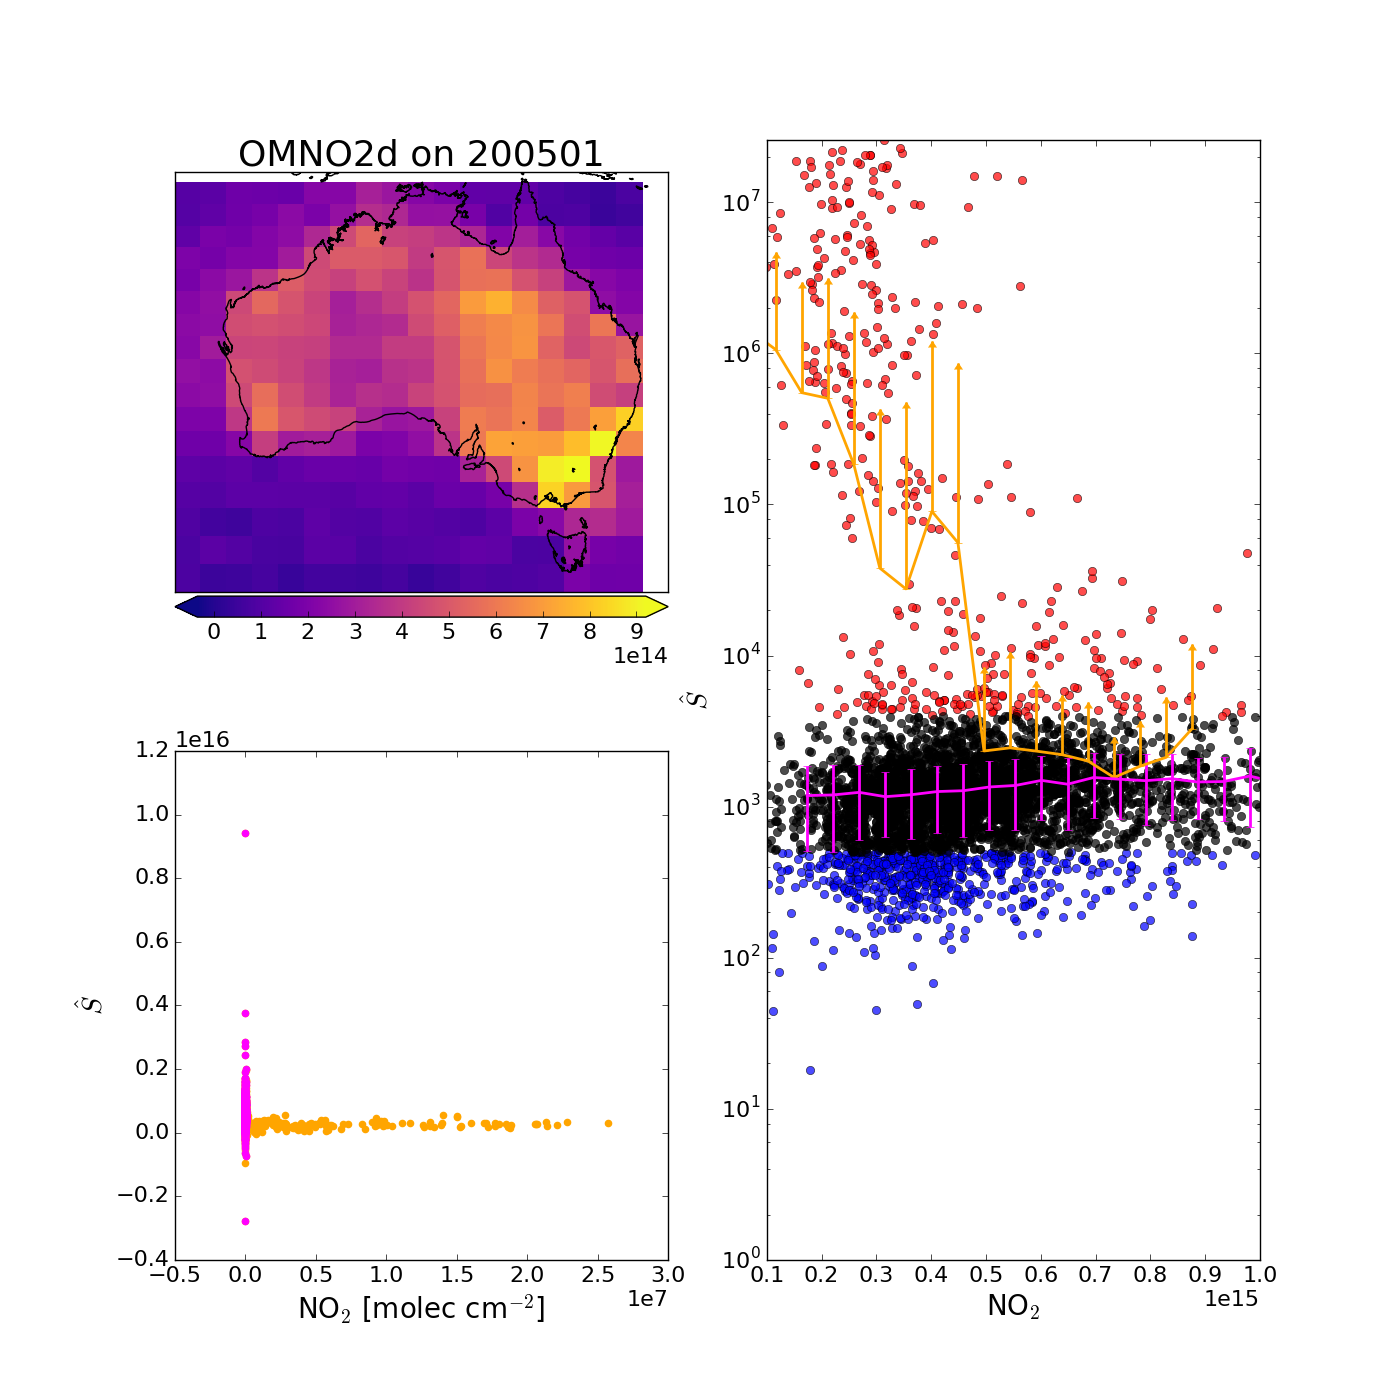
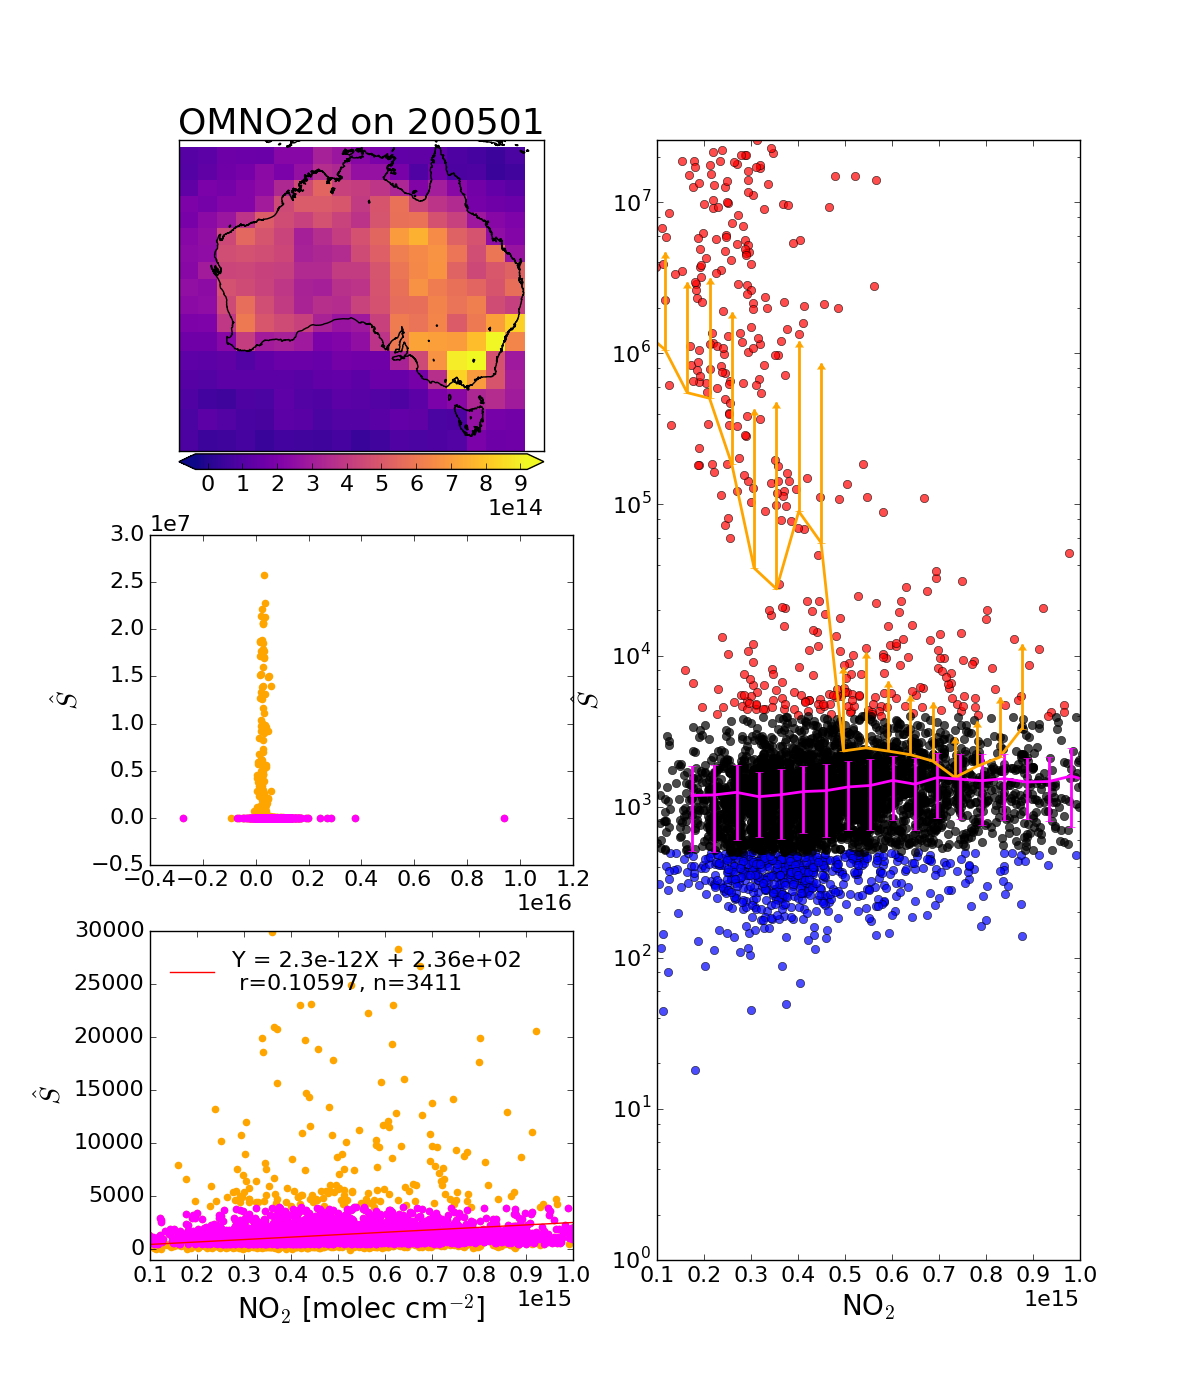
updated smearing nox plot

diff --git a/tests/test_filters.py b/tests/test_filters.py
@@ -1305,35 +1305,41 @@ def smearing_vs_nox(month=datetime(2005,1,1), hcho_life=2.5, smear_bounds=[500,4
     ## figure top left: aus map of NO2
     # bottom left: NO2 vs Shat scatter plot of regressions
     # right side: Distributions of smearing binned by NO2 levels
-    plt.figure(figsize=(14,14))
-    plt.subplot(2,2,1)
+    plt.figure(figsize=(12,14))
+    plt.subplot(3,2,1)
     pp.createmap(no2_mean,lats,lons,
                  title="OMNO2d on %s"%month.strftime("%Y%m"),aus=True,linear=True)
                  #vmin=500,vmax=5000,linear=True,
                  #ticks=[500,2000,3500,5000],
                  #xticklabels=['500','2000','3500','5000'])
 
+    ## Plot NO2 vs Shat
+    no2lims=[1e14,1e15]
+    slims=[-1e3,3e4]
+    plt.subplot(3,2,3)
+    plt.scatter(no2.flatten(), smear.flatten(), color='orange')
+    plt.scatter(fno2.flatten(), fsmear.flatten(), color='magenta')
+    plt.ylabel("$\hat{S}$")
+    #plt.xlabel("NO$_2$ [molec cm$^{-2}$]")
 
-    plt.subplot(2,2,3)
-    plt.scatter(smear.flatten(), no2.flatten(), color='orange')
-    #slims = [-1e4,8e4] # plot limits for slopes
-    #plt.xlim(slims)
-    #plt.ylim(slims)
-    #plt.plot(slims,slims, '--k') # dashed 1 to 1 line
+    ## Plot again but zoomed in with regression
+    plt.subplot(3,2,5)
+    plt.scatter(no2.flatten(), smear.flatten(), color='orange')
+    #plt.scatter(fno2.flatten(), fsmear.flatten(), color='magenta')
+    pp.plot_regression(fno2.flatten(), fsmear.flatten(), legendfont=16,
+                       logscale=False, colour='magenta')
     plt.ylabel("$\hat{S}$")
     plt.xlabel("NO$_2$ [molec cm$^{-2}$]")
-    #plt.title('unfiltered regression $\hat{S} = m NO$_2$ + b$')
-    # Again regression after filtering outside smearing bounds.
 
-    #pp.plot_regression(fno2.flatten(), fsmear.flatten(), logscale=False,
-    #                   colour='magenta')
-    plt.scatter(fsmear.flatten(), fno2.flatten(), color='magenta')
+    plt.xlim(no2lims)
+    plt.ylim(slims)
 
-    ## distribution binned by NO2
-    no2lims=[1e14,1e15]
-    #bins=np.logspace(14,15,20,base=10) # 1e13-1e17 ish
-    bins=np.linspace(5e13,1e15,21)
+
     plt.subplot(1,2,2)
+    ## distribution binned by NO2
+
+    bins=np.linspace(5e13,1e15,21)
+
     plt.plot(no2[smear_high], smear[smear_high], 'ro', alpha=0.7, zorder=-32)
     plt.plot(no2[smear_low], smear[smear_low], 'bo', alpha=0.7, zorder=-32)
     plt.plot(no2[~smear_filter], smear[~smear_filter], 'ko', alpha=0.7, zorder=-32)

diff --git a/utilities/fio.py b/utilities/fio.py
@@ -1364,7 +1364,7 @@ def get_fire_mask(d0, dN=None, prior_days_masked=2, fire_thresh=__Thresh_fires__
     # subset to requested dates, lats and lons
     di = util.date_index(d0,dates,dN=dN)
     if region is not None:
-        subset=util.lat_lon_subset(lats,lons,region=region,[firemask],has_time_dim=True)
+        subset=util.lat_lon_subset(lats,lons,region=region,data=[firemask],has_time_dim=True)
         firemask=subset['data'][0]
         lats=subset['lats']
         lons=subset['lons']
@@ -1390,7 +1390,7 @@ def get_anthro_mask(d0,dN,region=None,latres=__LATRES__, lonres=__LONRES__):
     # subset to desired time/area
     di=util.date_index(d0,dates,dN) # indices of dates from d0 to dN
     if region is not None:
-        subset=util.lat_lon_subset(lats,lons,region=region,[mask],has_time_dim=True)
+        subset=util.lat_lon_subset(lats,lons,region=region,data=[mask],has_time_dim=True)
         mask=subset['data'][0]
         lats=subset['lats']
         lons=subset['lons']
@@ -1412,7 +1412,7 @@ def get_smoke_mask(d0,dN,region=None,latres=__LATRES__, lonres=__LONRES__):
     # subset to desired time/area
     di=util.date_index(d0,dates,dN) # indices of dates from d0 to dN
     if region is not None:
-        subset=util.lat_lon_subset(lats,lons,region=region,[mask],has_time_dim=True)
+        subset=util.lat_lon_subset(lats,lons,region=region,data=[mask],has_time_dim=True)
         mask=subset['data'][0]
         lats=subset['lats']
         lons=subset['lons']

diff --git a/utilities/plotting.py b/utilities/plotting.py
@@ -588,7 +588,7 @@ def plot_regression(X,Y, limsx=None, limsy=None, logscale=True,
                 cb.set_label(clabel)
         m,b,r,CI1,CI2=RMA(X[~nans], Y[~nans]) # get regression
         plt.plot(limsx, m*np.array(limsx)+b,color=linecolour,
-                 label='Y = %.5fX + %.2e\n r=%.5f, n=%d'%(m,b,r,np.sum(~nans)))
+                 label='Y = %.1eX + %.2e\n r=%.5f, n=%d'%(m,b,r,np.sum(~nans)))
     else:
         omask=~(nans+~oceanmask ) # true where not nan or land
         lmask=~(nans+oceanmask ) # true where not nan or ocean
@@ -607,9 +607,9 @@ def plot_regression(X,Y, limsx=None, limsy=None, logscale=True,
 
         #plot lobf and label
         plt.plot( limsx, lm*limsx+lx0, color='k', linewidth=2,
-                label='Land: Y = %.5fX + %.2e; r=%.5f'%(lm,lx0,lr))
+                label='Land: Y = %.1eX + %.2e; r=%.5f'%(lm,lx0,lr))
         plt.plot( limsx, m*limsx+x0, color='blue',
-                label='Ocean: Y = %.5fX + %.2e, r=%.5f'%(m,x0,r))
+                label='Ocean: Y = %.1eX + %.2e, r=%.5f'%(m,x0,r))
 
         print('Land: Y = %.5fX + %.2e; r=%.5f'%(lm,lx0,lr))
         print('with CI ranges of slope %2.5f, %2.5f'%(lci1[0][0],lci1[0][1]))
